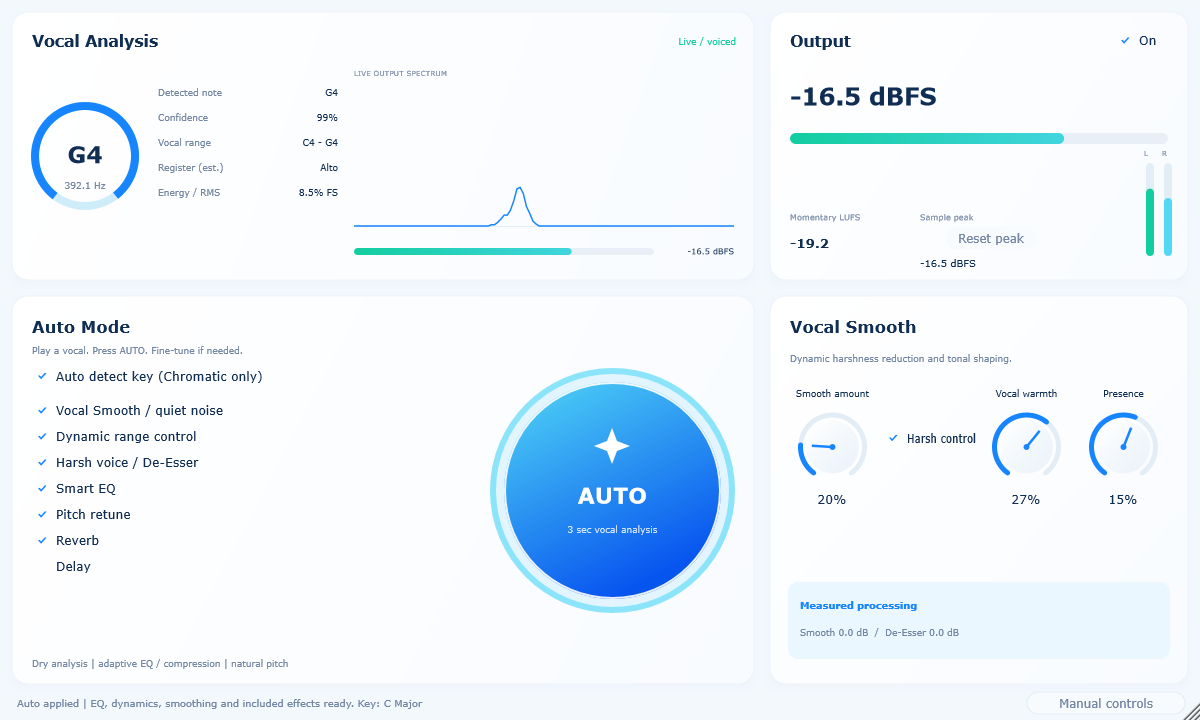
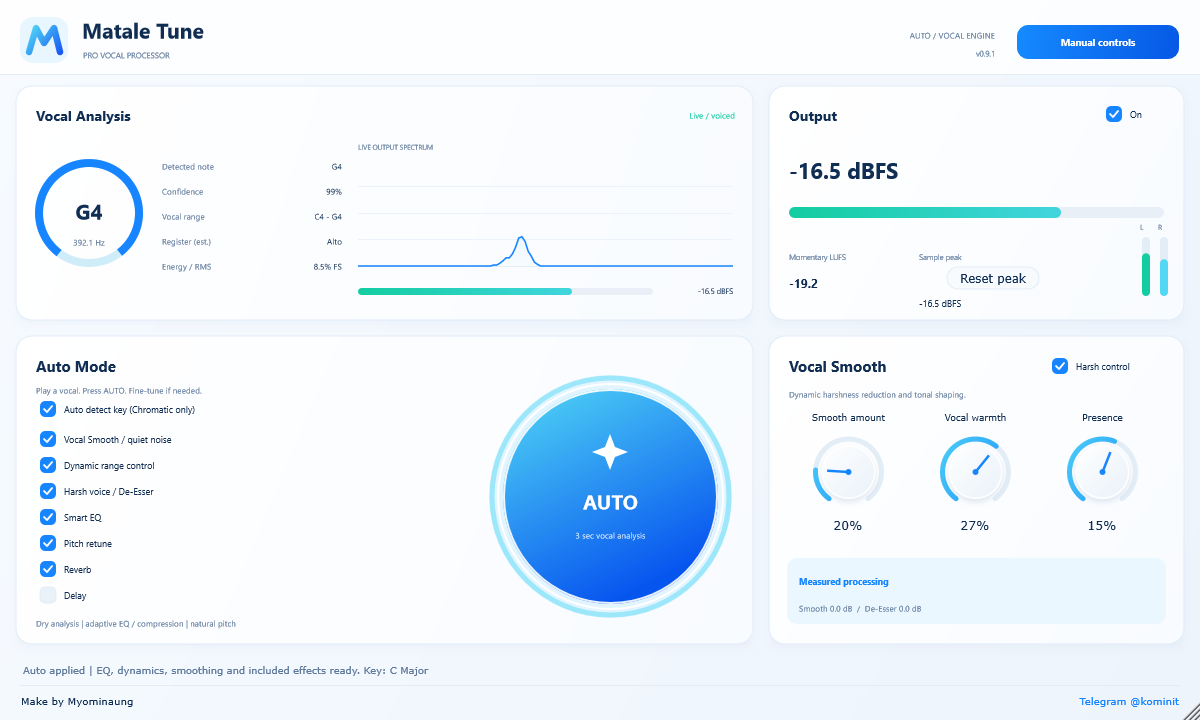
Publish verified branded Windows VST3 download and previews

diff --git a/README.md b/README.md
@@ -170,7 +170,9 @@ Opto compression adds a 6 dB soft knee, program-dependent two-stage release, adj
 
 A stereo-linked output safety limiter uses 128 samples of lookahead and a −0.45 dBFS sample-peak ceiling, with an 80 ms release. It preserves stereo ratios and meters measure its actual output. Settings exposes its switch and reduction. Enabled processing adds 128 samples to the shared 2048-sample DSP delay (2176 total; browser/device latency is additional). Master bypass remains dry. This is sample-peak protection, not true-peak mastering. Older presets load with default sidechain/mix/safety values.
 
-## Native 0.9.0 DAW preview
+## Native DAW preview
+
+[Latest Windows VST3: 0.9.1 with branded UI](https://github.com/shwesiads-ctrl/b-tune/raw/67d5294076d67f1dfd52a89e9b65ea5ca74147d7/MataleTune-Windows-x64-VST3.zip)
 
 VST3/AU share a compact four-panel JUCE editor: Vocal Analysis, Output, Auto
 Mode and Vocal Smooth. Native Auto measures dry stereo audio, estimates key
@@ -232,4 +234,20 @@ a permanent header. The footer includes **Make by Myominaung** and
 [Telegram @kominit](https://t.me/kominit), retained in both Auto and Manual views.
 The visual refresh adds shaded rotary knobs, spectrum fill/grid, consistent
 checkboxes and a prominent header Manual button. All parameter IDs and audio
-processing remain unchanged. Windows build validation is pending for this revision.
+processing remain unchanged. Windows MSVC build, all 10 native suites and pluginval strictness 5 passed.
+
+### Verified Windows 0.9.1 branded UI download
+
+[Download Windows x64 VST3 0.9.1](https://github.com/shwesiads-ctrl/b-tune/raw/67d5294076d67f1dfd52a89e9b65ea5ca74147d7/MataleTune-Windows-x64-VST3.zip)
+(3.69 MB) · [Windows build/test evidence](https://github.com/shwesiads-ctrl/b-tune/actions/runs/38617599693).
+
+Source `7190afb6c91f881c8a9ae4c98af48e07eee9273a` includes explicit Segoe UI
+typography for Windows. Native tests passed 10/10 and pluginval strictness 5
+passed. The published ZIP CRC, matching source, SHA-256 and PE x64 module were
+independently checked. SHA-256:
[1 lines of base64/hex data omitted]
+
+Close the DAW, replace the whole `Matale Tune.vst3` folder in
+`C:\Program Files\Common Files\VST3\`, then reopen/rescan.
+
+![Actual Windows 0.9.1 branded native editor](Native-Compact-Preview.png)

diff --git a/project/docs/NATIVE-VALIDATION.md b/project/docs/NATIVE-VALIDATION.md
@@ -77,4 +77,17 @@ without changing DSP or parameter/state IDs. Minimum interactive size is now
 980×700; default is 1200×760. Existing bounds/manual-binding, state and DSP
 checks passed on Linux: 10 native suites executed, 10 passed. Auto and Manual
 screenshots were inspected for branding, legible values, controls and footer.
-Windows build/validation is pending for this revision.
+Windows run https://github.com/shwesiads-ctrl/b-tune/actions/runs/38617599693
+passed for source `7190afb6c91f881c8a9ae4c98af48e07eee9273a`: MSVC x64 build,
+10/10 native CTest suites and pluginval 1.0.4 strictness 5. Both Auto and Manual
+Windows screenshots were captured; the final Auto screenshot was inspected to
+confirm the logo, credits and consistent Segoe UI typography. Pluginval GUI
+tests and the separate Steinberg validator remain skipped as documented above.
+
+Archive: 3,693,310 bytes. CRC, matching source/version, PE x64 module and SHA-256
+were independently verified. SHA-256:
[1 lines of base64/hex data omitted]
+Binary commit: `67d5294076d67f1dfd52a89e9b65ea5ca74147d7`.
+The user supplied a screenshot of the earlier version inserted and displaying
+live analysis in FL Studio. Listening quality and DAW recall of 0.9.1 remain
+user-host checks.
